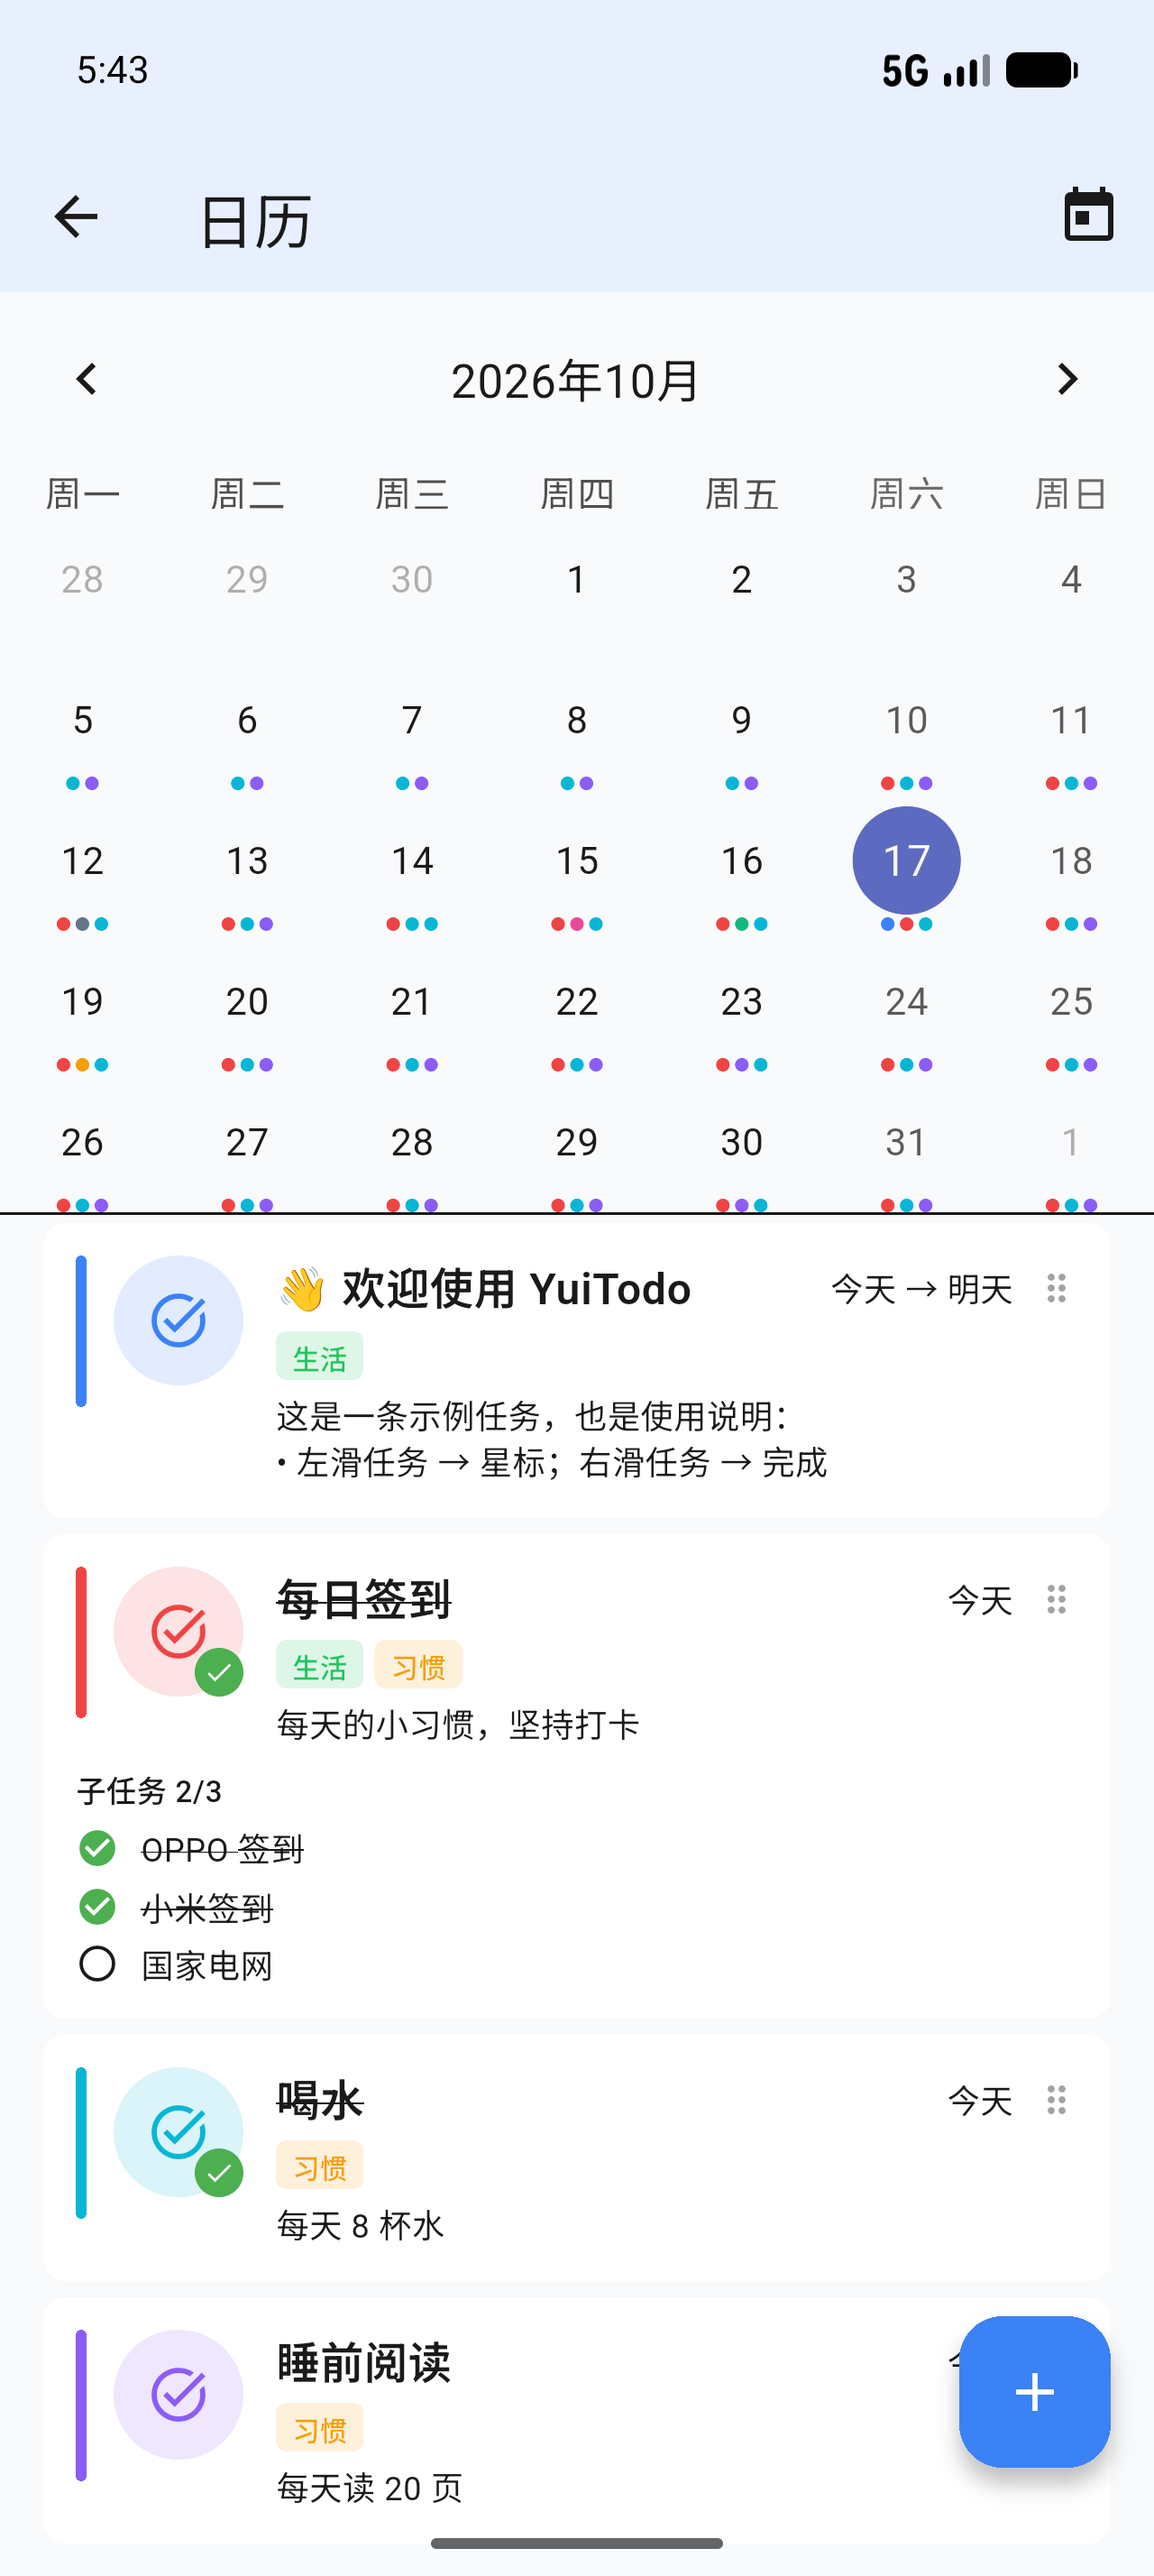
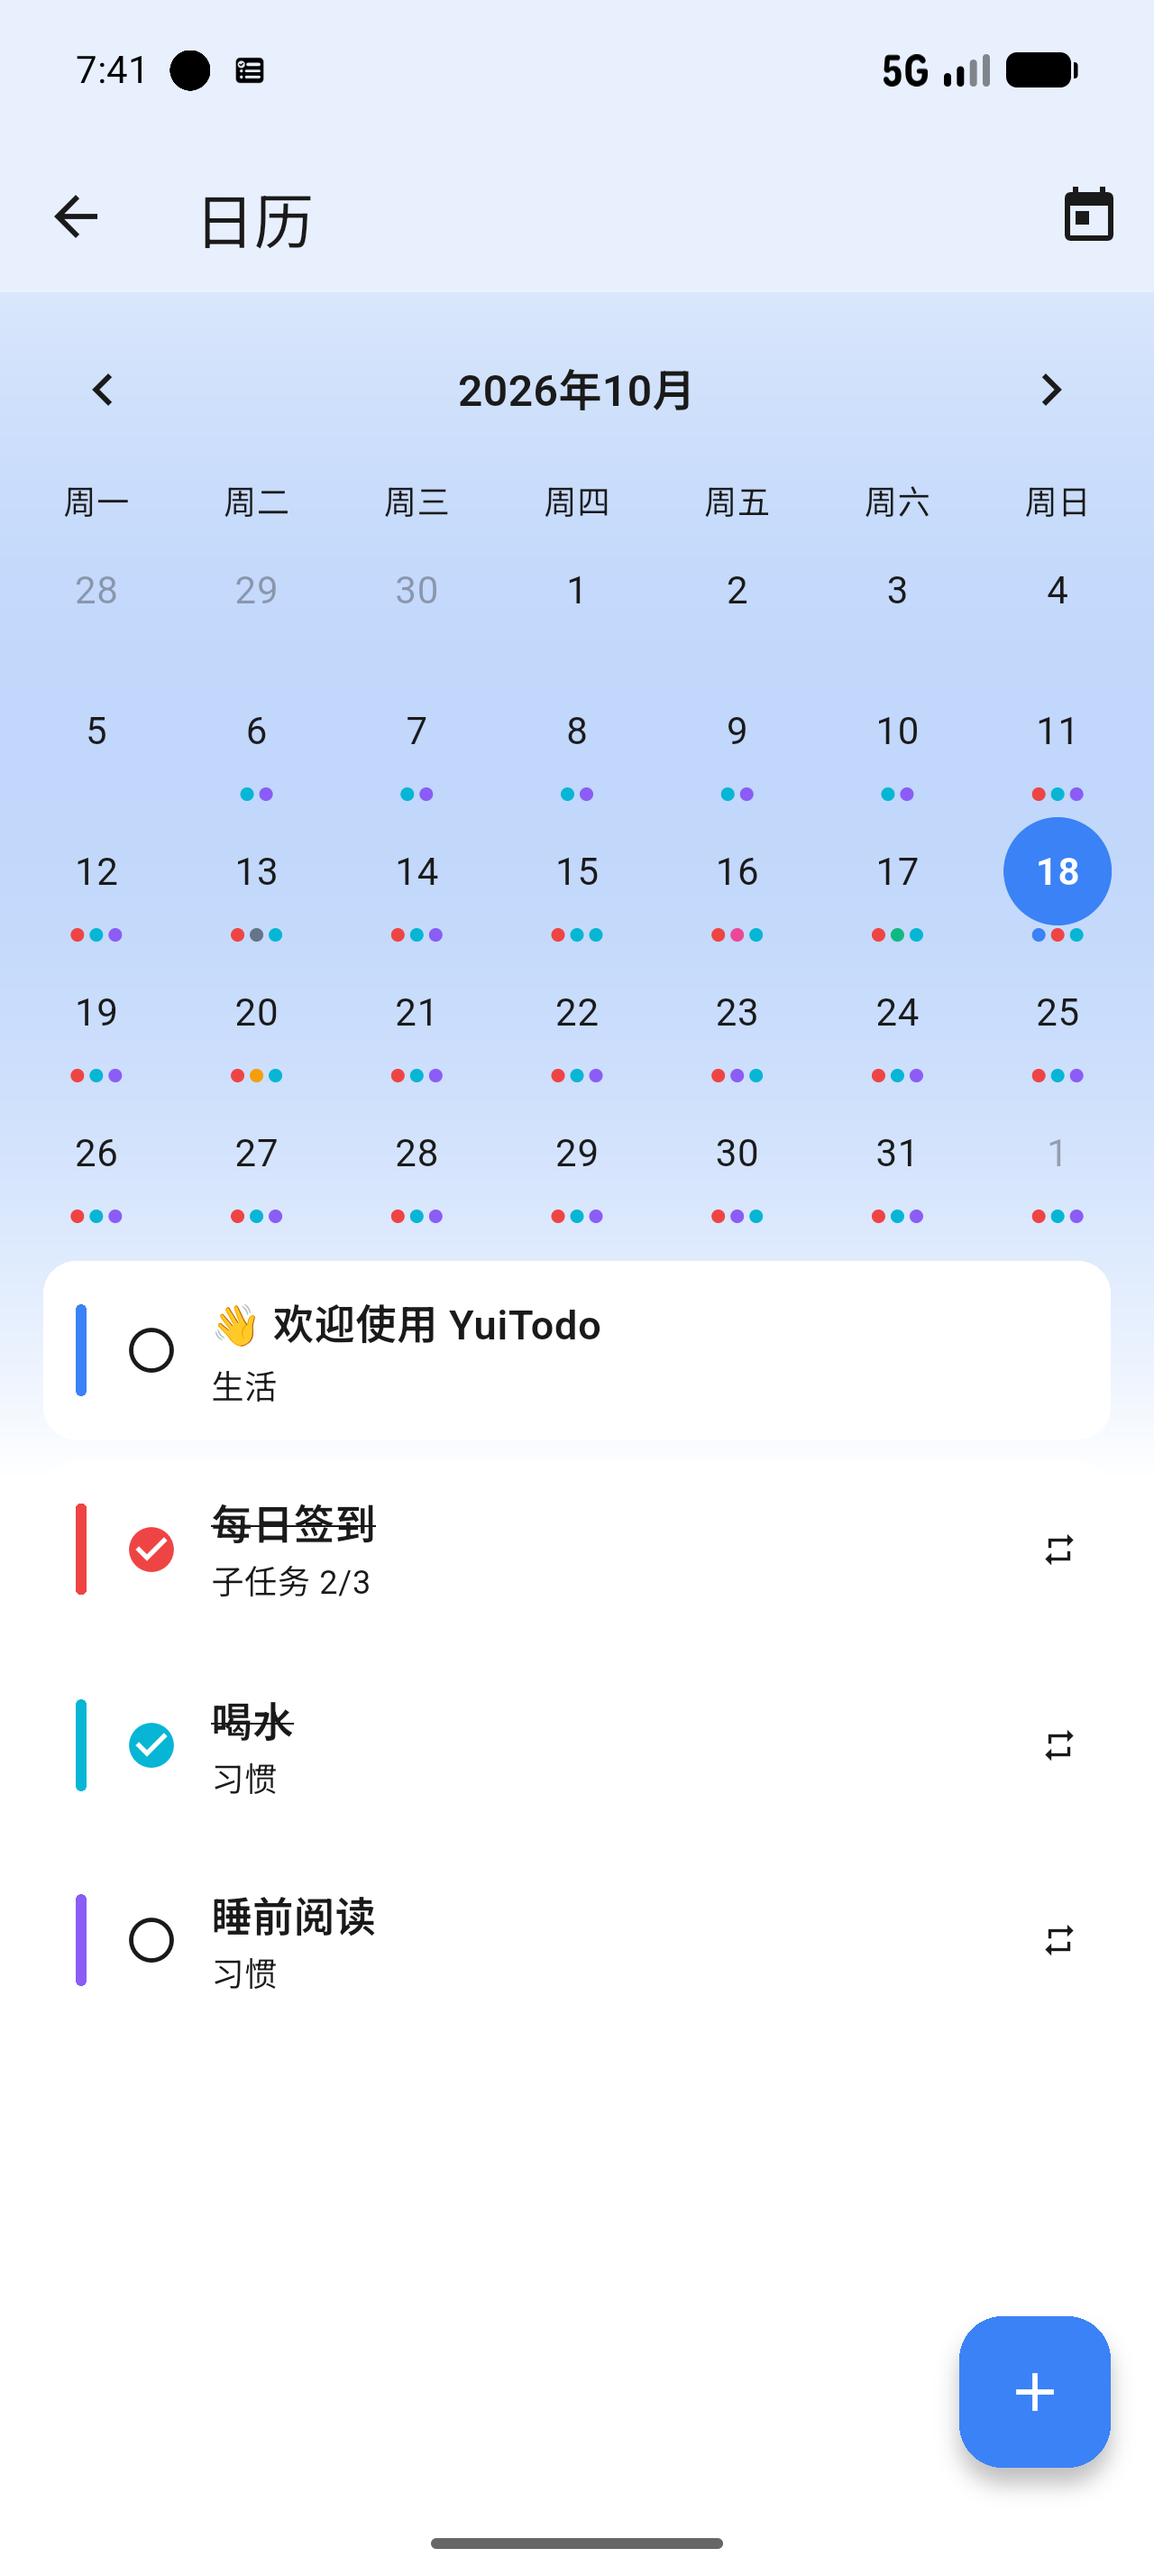
docs(release): v4.0.2 README, screenshots and release notes

diff --git a/README.md b/README.md
@@ -5,7 +5,7 @@
 ![Flutter](https://img.shields.io/badge/Flutter-3.x-02569B?logo=flutter&logoColor=white)
 ![Dart](https://img.shields.io/badge/Dart-3.x-0175C2?logo=dart&logoColor=white)
 ![License](https://img.shields.io/badge/License-MIT-green)
-![Version](https://img.shields.io/badge/Version-4.0.0-blue)
+![Version](https://img.shields.io/badge/Version-4.0.2-blue)
 ![Platform](https://img.shields.io/badge/Platform-Android-3DDC84?logo=android&logoColor=white)
 ![Build](https://img.shields.io/badge/Build-Passing-brightgreen)
 
@@ -39,6 +39,17 @@ YuiTodo 诞生于对现有任务管理工具的不满：要么功能过于复杂
 - **操作流畅**：手势优先，减少点击层级
 - **功能完备**：覆盖任务管理的核心场景，无冗余功能
 - **隐私优先**：纯本地存储，零网络请求，无账号、无云同步
+
+---
+
+## 🆕 v4.0.2 新变化
+
+- **日历重做**：主题渐变背景、可选背景图（`assets/images/calendar_bg.png`，建议 1240×1600）、任务改为紧凑单行卡片，按日切换淡入滑动。
+- **统计范围选择器**：去掉选中 ✓，仅保留主题色高亮，窄屏外框不再溢出。
+- **顶部提示单行化**：消息 + 撤销 / 关闭在同一行，背景与页面同色，无分界线。
+- **滑动按钮跟随主题**：完成 / 星标 / 跳过 / 专注 / 改期 / 删除全部使用主题语义色。
+- **习惯即时同步**：在任务列表完成习惯后，习惯页立即更新打卡与连续天数。
+- **动画打磨**：任务卡片入场、分区折叠、完成徽标弹入、删除淡出、主题切换交叉淡入。
 
 ---
 
@@ -107,7 +118,7 @@ YuiTodo 诞生于对现有任务管理工具的不满：要么功能过于复杂
 | 📌 图标标记 | 200+ 图标库，支持二次元头像 |
 | 🔄 循环任务 | 日/周/月/年/自定义间隔，虚拟实例渲染 |
 | ⏰ 提醒通知 | 本地通知，重复任务自动预排未来 7 天 |
-| 📆 日历视图 | 月历打点、按日查看任务、直接完成子任务 |
+| 📆 日历视图 | 月历打点、按日查看任务、直接完成子任务；支持自定义背景图（1240×1600） |
 | 🍅 专注模式 | 番茄钟 / 正计时、暂停、休息、专注记录 |
 | 🔥 习惯追踪 | 打卡、连续天数、本周进度、30 天网格 |
 | 📊 统计面板 | 多时间范围、完成率、子任务、热力图、连续打卡、标签/星期/月份分布 |
@@ -151,8 +162,8 @@ YuiTodo 诞生于对现有任务管理工具的不满：要么功能过于复杂
 4. 允许"未知来源"安装权限
 
 > **两个版本说明**
-> - **开源版（opensource）**：不含自定义字体，使用系统默认字体，公开发布；当前版本 **v4.0.0**。
-> - **完整版（full）**：包含自定义字体切换（字体涉及版权，仅本地构建，不公开分发）；当前版本 **v4.0.0.1**。
+> - **开源版（opensource）**：不含自定义字体，使用系统默认字体，公开发布；当前版本 **v4.0.2**。
+> - **完整版（full）**：包含自定义字体切换（字体涉及版权，仅本地构建，不公开分发）；当前版本 **v4.0.2.1**。
 >
 > 两者功能完全一致，仅字体切换能力不同。
 
